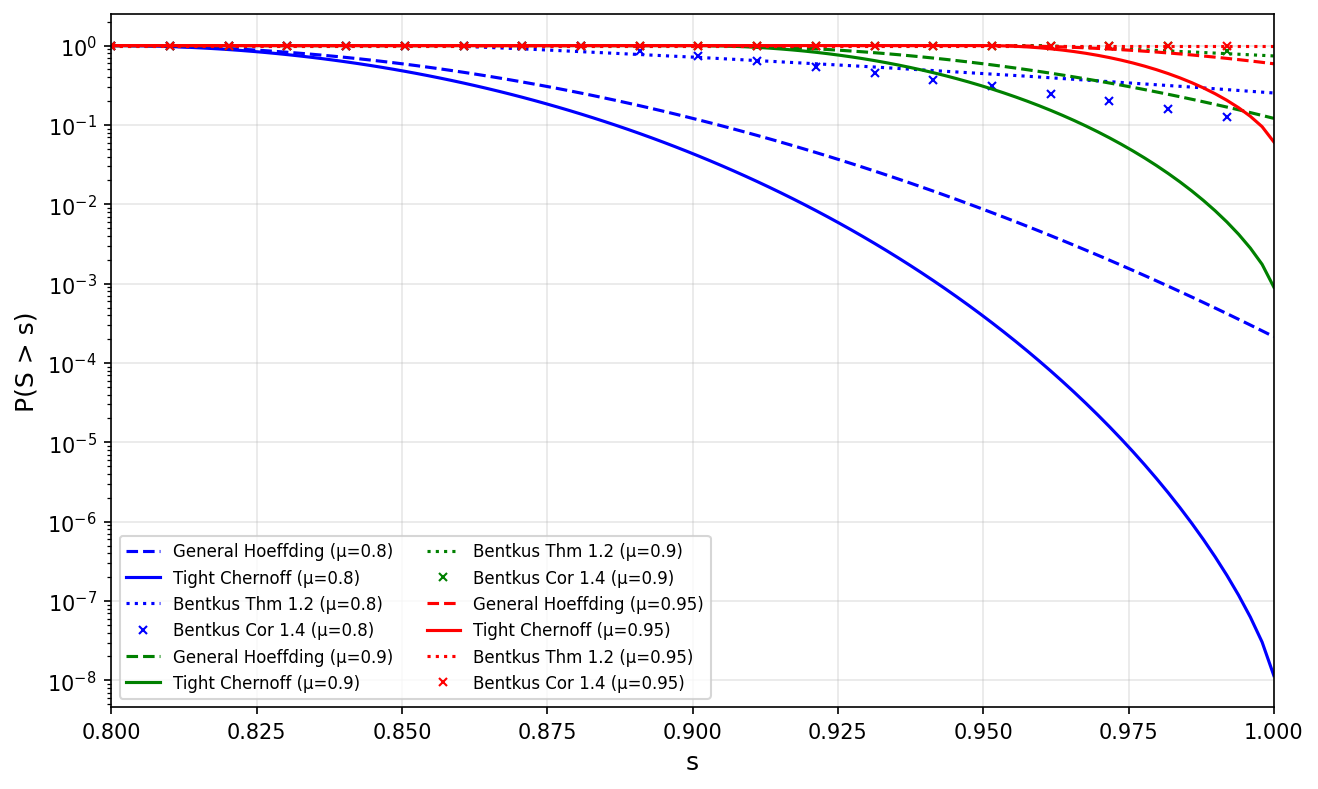
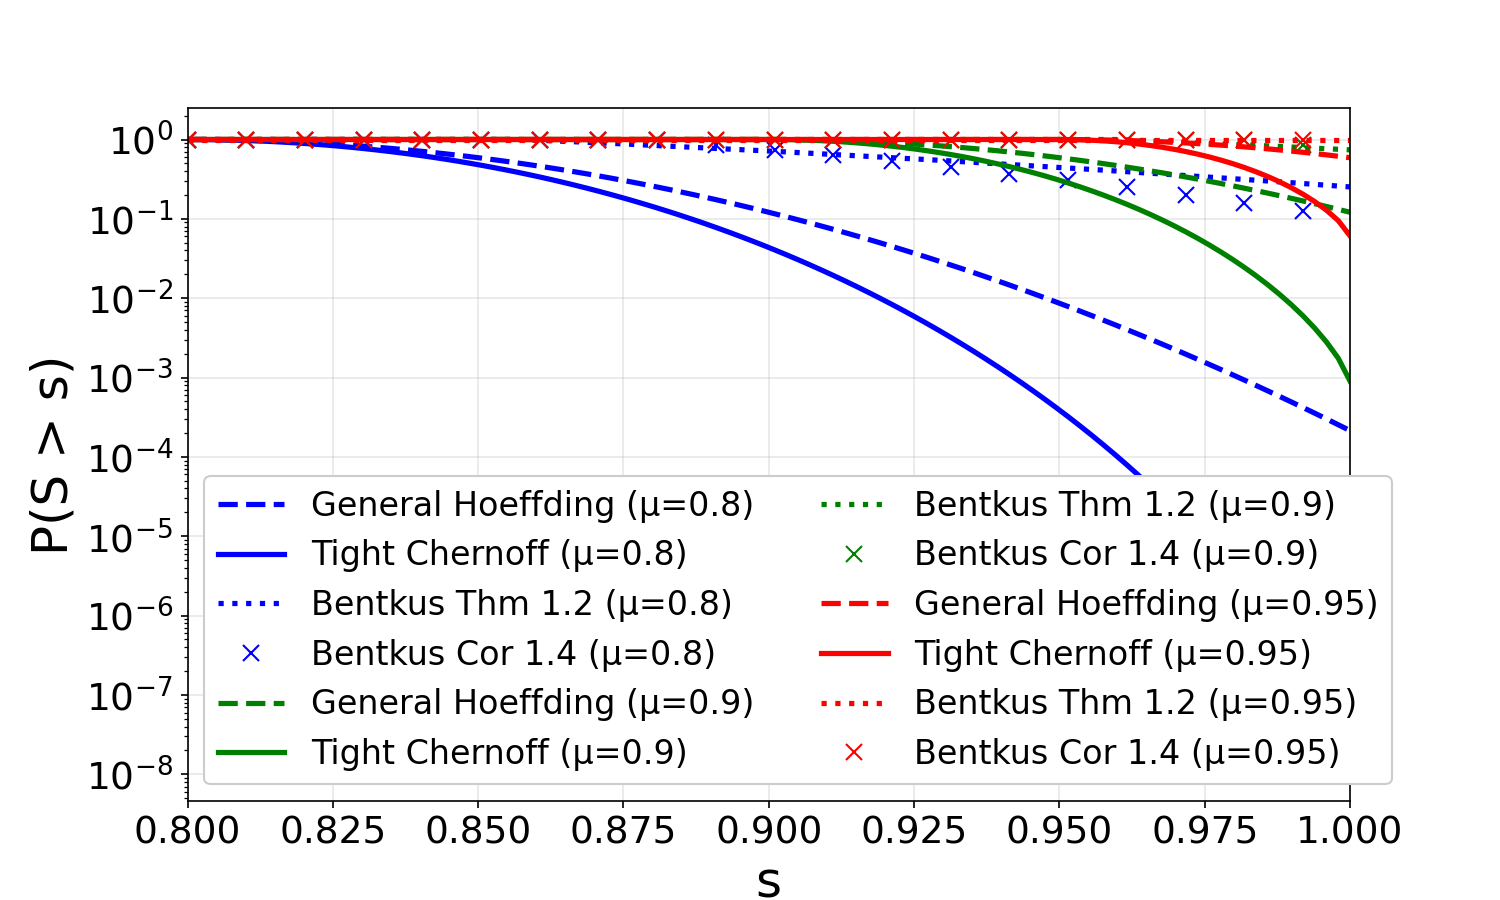
Remove redundant Specialized Hoeffding from homogen figures; fix figure dimensions (#18)
* Initial plan

* Remove specialized Hoeffding from homogen figures and fix pixel dimensions

- Remove Specialized Hoeffding (hoeffding_thm1) from homogen_compare.py
  since it is identical to Tight Chernoff
- Remove bbox_inches='tight' from both homogen_compare.py and
  dirichlet_compare.py so all figures have identical pixel dimensions
  (1500x900 at 150 DPI)
- Regenerate all homogen_*.png and dirichlet_*.png figures
- Update figure caption in manuscript/main.tex

---------

diff --git a/manuscript/main.tex b/manuscript/main.tex
@@ -184,7 +184,7 @@ This theorem suggests two methods for computing $\varphi^*$.  One method involve
 \begin{center}
 \includegraphics[width=3.2in]{comparisons/dirichlet_100.png}\includegraphics[width=3.2in]{comparisons/homogen_100.png}
   \caption{
-  (Left) Comparison of bounds for heterogeneous intervals.  We consider three choices of fixed expected value, $\mu \in \{0.8, 0.9, 0.95\}$.  We compare the general Hoeffding inequality \citep[Theorem 2]{hoeffding_probability_1963} (dashed lines), our new Tight Chernoff bounds (solid lines, calculated using Theorem~\ref{thm:lowd}), Bentkus Theorem 1.2 \citep{bentkus2004hoeffding} (dotted lines), and Bentkus Corollary 1.4 (×~markers).  Since Bentkus Theorem 1.2 requires homogeneous intervals (cf.\ the CW setting from Section~\ref{sec:related}), we apply it by rescaling all variables to lie within $[0, \max_i b_i]$.  Bentkus Corollary 1.4 (cf.\ the BMD setting from Section~\ref{sec:related}) provides per-variable scaling but requires centering information; in the heterogeneous case, this assumption is necessarily loose because it does not fully exploit the per-variable upper bounds.  Our tight Chernoff bound substantially outperforms both the general Hoeffding inequality and the Bentkus bounds in the heterogeneous case.  (Right) Comparison of bounds for homogeneous intervals.  When all variables share the same bounding interval $[0,1]$, the specialized Hoeffding inequality (Equation~\ref{eq:hoeffspecial}) applies.  We compare the general Hoeffding inequality, the specialized Hoeffding inequality, our new tight Chernoff bounds, and Bentkus Theorem 1.2.  Our tight Chernoff bounds match the specialized Hoeffding inequality, as expected from Theorem~\ref{thm:lowd}.  In this homogeneous setting, the specialized Hoeffding inequality, the Bentkus Theorem 1.2 bound, and our tight Chernoff bounds all provide much tighter bounds than the general Hoeffding inequality.
+  (Left) Comparison of bounds for heterogeneous intervals.  We consider three choices of fixed expected value, $\mu \in \{0.8, 0.9, 0.95\}$.  We compare the general Hoeffding inequality \citep[Theorem 2]{hoeffding_probability_1963} (dashed lines), our new Tight Chernoff bounds (solid lines, calculated using Theorem~\ref{thm:lowd}), Bentkus Theorem 1.2 \citep{bentkus2004hoeffding} (dotted lines), and Bentkus Corollary 1.4 (×~markers).  Since Bentkus Theorem 1.2 requires homogeneous intervals (cf.\ the CW setting from Section~\ref{sec:related}), we apply it by rescaling all variables to lie within $[0, \max_i b_i]$.  Bentkus Corollary 1.4 (cf.\ the BMD setting from Section~\ref{sec:related}) provides per-variable scaling but requires centering information; in the heterogeneous case, this assumption is necessarily loose because it does not fully exploit the per-variable upper bounds.  Our tight Chernoff bound substantially outperforms both the general Hoeffding inequality and the Bentkus bounds in the heterogeneous case.  (Right) Comparison of bounds for homogeneous intervals.  When all variables share the same bounding interval $[0,1]$, the specialized Hoeffding inequality (Equation~\ref{eq:hoeffspecial}) applies.  We compare the general Hoeffding inequality, our new tight Chernoff bounds, and Bentkus Theorem 1.2.  Our tight Chernoff bounds coincide with the specialized Hoeffding inequality, as expected from Theorem~\ref{thm:lowd}, so only the tight Chernoff bounds are shown.  In this homogeneous setting, the Bentkus Theorem 1.2 bound and our tight Chernoff bounds both provide much tighter bounds than the general Hoeffding inequality.
   }\label{fig:tailboundcomparisons}
 \end{center}
 \end{figure}

diff --git a/comparisons/homogen_compare.py b/comparisons/homogen_compare.py
@@ -21,7 +21,7 @@ import os
 # Add the parent directory to path to import becitbam
 sys.path.insert(0, os.path.dirname(os.path.dirname(os.path.abspath(__file__))))
 
-from becitbam import hoeffding_thm1, hoeffding_thm2, sharp_chernoff, bentkus
+from becitbam import hoeffding_thm2, sharp_chernoff, bentkus
 
 
 def compute_bounds(s_values, mu, n):
@@ -39,8 +39,6 @@ def compute_bounds(s_values, mu, n):
     
     Returns
     -------
-    hoeffding1_bounds : numpy.ndarray
-        Hoeffding Theorem 1 (KL) bound on P(S > s)
     hoeffding2_bounds : numpy.ndarray
         Hoeffding Theorem 2 (sum of squares) bound on P(S > s)
     tight_chernoff_bounds : numpy.ndarray
@@ -51,16 +49,11 @@ def compute_bounds(s_values, mu, n):
     # All intervals are [0, 1]
     a = np.ones(n)
     
-    hoeffding1_bounds = []
     hoeffding2_bounds = []
     tight_chernoff_bounds = []
     bentkus_thm12_bounds = []
     
     for s in s_values:
-        # Hoeffding Theorem 1 (KL-based, returns log probability)
-        log_hoeffding1 = hoeffding_thm1(s, n, mu)
-        hoeffding1_bounds.append(np.exp(log_hoeffding1))
-        
         # Hoeffding Theorem 2 (sum of squares, returns log probability)
         log_hoeffding2 = hoeffding_thm2(s, mu, a)
         hoeffding2_bounds.append(np.exp(log_hoeffding2))
@@ -73,7 +66,7 @@ def compute_bounds(s_values, mu, n):
         bentkus_thm12_prob = bentkus(s, mu, a)
         bentkus_thm12_bounds.append(bentkus_thm12_prob)
     
-    return (np.array(hoeffding1_bounds), np.array(hoeffding2_bounds), 
+    return (np.array(hoeffding2_bounds), 
             np.array(tight_chernoff_bounds), np.array(bentkus_thm12_bounds))
 
 
@@ -106,11 +99,7 @@ def main(n=100):
     
     for mu, frac, color in zip(mu_values, mu_fractions, colors):
         print(f"Computing bounds for mu={mu} (fraction={frac})...")
-        hoeffding1, hoeffding2, tight_chernoff, bentkus_thm12 = compute_bounds(s_values, mu, n)
-        
-        # Plot Hoeffding Theorem 1 (KL) bound - "Specialized Hoeffding" (dashed line)
-        ax.plot(s_values / n, hoeffding1, '--', color=color, 
-                label=f'Specialized Hoeffding (μ={frac})', linewidth=2.5)
+        hoeffding2, tight_chernoff, bentkus_thm12 = compute_bounds(s_values, mu, n)
         
         # Plot Hoeffding Theorem 2 (sum of squares) bound - "General Hoeffding" (dash-dot line)
         ax.plot(s_values / n, hoeffding2, '-.', color=color, 
@@ -123,10 +112,7 @@ def main(n=100):
         # Plot Bentkus Thm 1.2 bound (dotted line)
         ax.plot(s_values / n, bentkus_thm12, ':', color=color,
                 label=f'Bentkus Thm 1.2 (μ={frac})', linewidth=2.5)
-        
-        # Sanity check: Tight Chernoff should match Hoeffding KL
-        max_diff = np.max(np.abs(hoeffding1 - tight_chernoff))
-        print(f"  Max |Hoeffding KL - Tight Chernoff| = {max_diff:.2e}")
+    
     
     ax.set_xlabel('s/n (normalized threshold)', fontsize=24)
     ax.set_ylabel('P(S > s)', fontsize=24)
@@ -139,7 +125,7 @@ def main(n=100):
     # Save the plot
     script_dir = os.path.dirname(os.path.abspath(__file__))
     output_path = os.path.join(script_dir, f'homogen_{n}.png')
-    plt.savefig(output_path, dpi=150, bbox_inches='tight')
+    plt.savefig(output_path, dpi=150)
     print(f"Plot saved to {output_path}")
     
     plt.close()

diff --git a/comparisons/dirichlet_compare.py b/comparisons/dirichlet_compare.py
@@ -159,7 +159,7 @@ def main(n=100, seed=42):
     # Save the plot
     script_dir = os.path.dirname(os.path.abspath(__file__))
     output_path = os.path.join(script_dir, f'dirichlet_{n}.png')
-    plt.savefig(output_path, dpi=150, bbox_inches='tight')
+    plt.savefig(output_path, dpi=150)
     print(f"Plot saved to {output_path}")
     
     plt.close()
